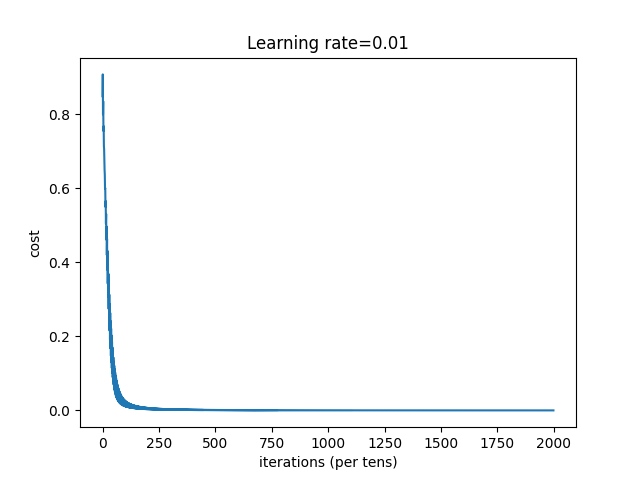
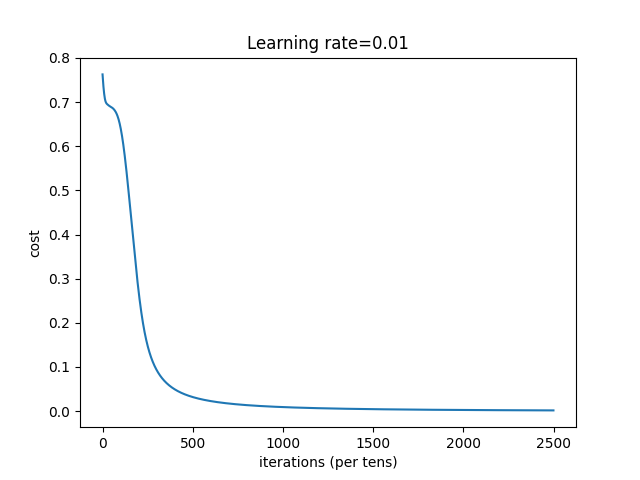
made some changes

diff --git a/playground/routes.py b/playground/routes.py
@@ -30,7 +30,6 @@ def home():
     global ss
     global le
 
-
     if request.method == 'POST':
         if request.get_json() is not None:
             session['posted'] = 1
@@ -86,16 +85,14 @@ def home():
 
     else:
         if session.get('uploaded') is None and session.get('posted') is None:
-            print('Here')
             if(os.path.exists('playground/static/img/test.png')):
                 os.remove('playground/static/img/test.png')
+            default_data()
             model = create_default_model()
             problem_type = 'classification'
 
             X_train, X_test, Y_train, Y_test = split_data(0)
-
             X, Y, ss, le = get_features(X_train, Y_train, problem_type)
-            print(X)
             model.fit(X, Y, 2500, '0', 0, 4)
 
             print(

diff --git a/wsgi.py b/wsgi.py
@@ -1,4 +1,4 @@
 from playground import app
 
 if __name__ == '__main__':
-    app.run()
+    app.run(debug=True, host='0.0.0.0')
